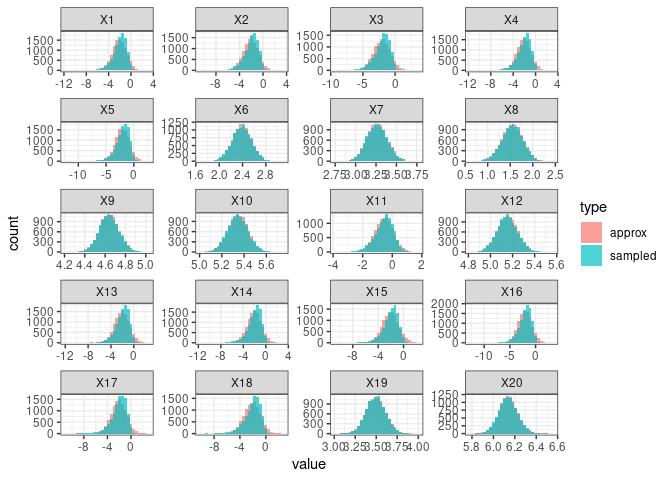
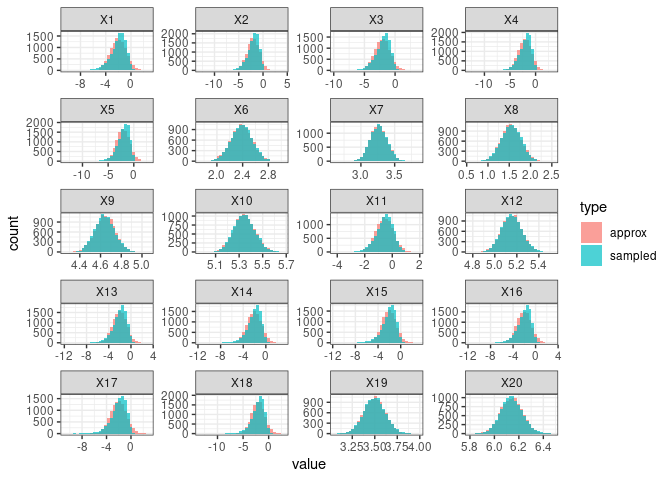
update

diff --git a/README.md b/README.md
@@ -34,7 +34,7 @@ knitr::kable(t(data.frame("observed" =
 
 |              |      mean |        sd |
 |:-------------|----------:|----------:|
-| observed     | -8.646809 | 0.0858661 |
+| observed     | -8.645835 | 0.0856597 |
 | approximated | -8.645706 | 0.0859221 |
 
 ``` r
@@ -82,8 +82,9 @@ rbind(a, b) %>%
 
     ## `stat_bin()` using `bins = 30`. Pick better value with `binwidth`.
 
-![](README_files/figure-gfm/comparing%20CLR%20to%20approx-1.png)<!-- -->
+<img src="README_files/figure-gfm/comparing CLR to approx-1.png" width="100%" height="100%" />
 
 For benchmarking click
 [Here](https://github.com/thomazbastiaanssen/deleuze/blob/main/docs/benchmarking.md)
+
 Put on its own page as it’s slow to knit.
